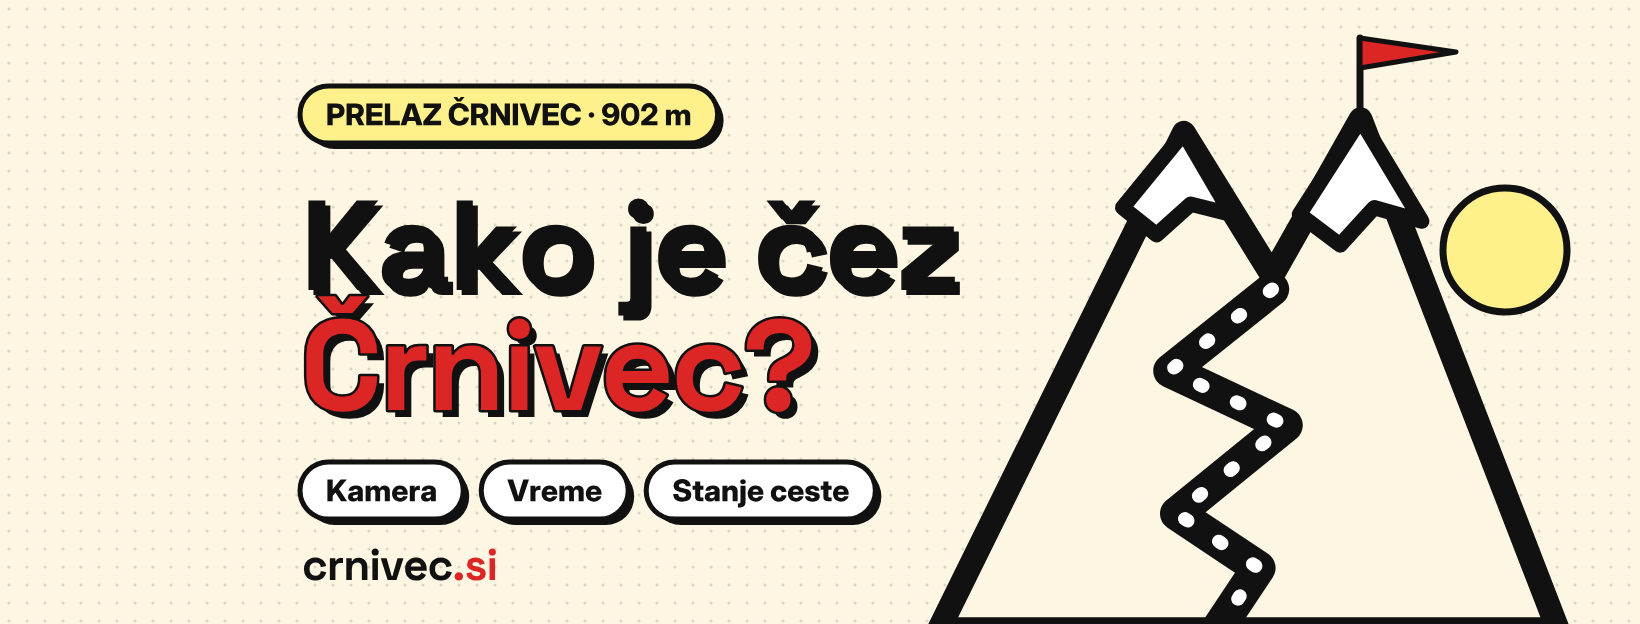
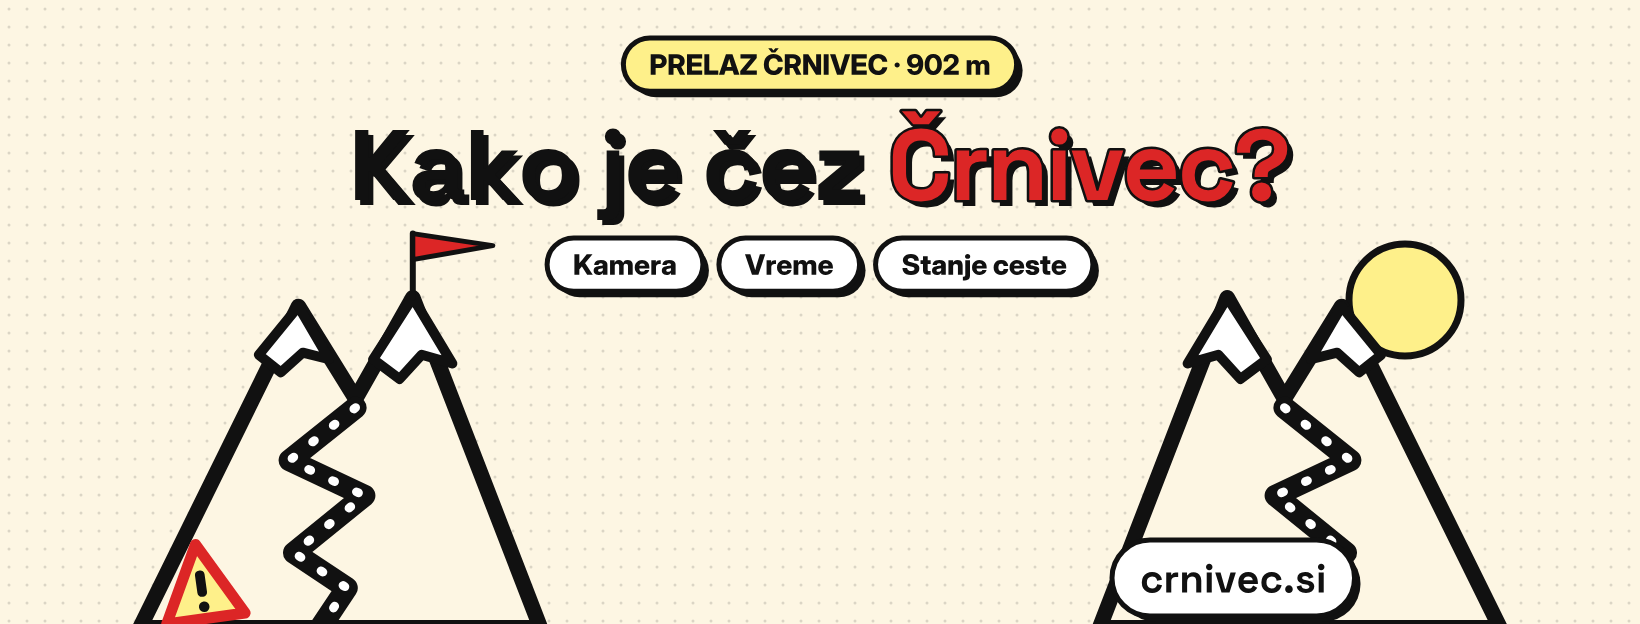
crnivec.si: FB naslovnica za nov videz strani (profilna na sredini) (#1030)
FB zdaj profilno sliko postavi na sredino čez spodnji rob naslovnice.
Besedilo je zato zgoraj na sredini, gori pa levo in desno, tako da
spodnja sredina ostane prazna in profilna sede v sedlo med njima.

Claude-Session: https://claude.ai/code/session_018zq1Mj54JDY6nUdMkaC1FW

diff --git a/tools/build_crnivec_brand.py b/tools/build_crnivec_brand.py
@@ -214,42 +214,58 @@ def chip(x, y, text, fonts, fs, fill, ink=INK, padx=26, h=None, shadow=6):
 
 def fb_cover():
     """Naslovnica 1640×624 (FB: namizje 820×312 pri 2×, telefon obreže
-    stranice na ~1110×624 v sredini). Vse bistveno je zato v sredinskem pasu
-    x 265–1375; levi spodnji kot na namizju prekrije profilna slika."""
+    stranice na ~1110×624 v sredini, zato je vse bistveno v pasu x 265–1375).
+
+    V novem videzu strani FB profilno sliko postavi NA SREDINO, čez spodnji
+    rob naslovnice. Spodnja sredina (x ~520–1120, y > ~330) mora zato ostati
+    prazna: besedilo je zgoraj na sredini, gori pa levo in desno, tako da
+    profilna sede v sedlo med njima."""
     W, H = 1640, 624
+    CX = W / 2
     defs = halftone("ht", INK, step=18, r=1.5, opacity=0.9)
     parts = [f'<rect width="{W}" height="{H}" fill="{CREAM}"/>',
              f'<rect width="{W}" height="{H}" fill="url(#ht)" opacity=".16"/>']
-    # Sonce + velika gora desno (sega čez spodnji rob)
-    parts.append(f'<circle cx="1505" cy="250" r="62" fill="{YELLOW}" stroke="{INK}" stroke-width="7"/>')
-    parts.append(f'<g transform="translate(905,58) scale(3.4)">{mountain(True, sign=False)}</g>')
-    # »902 m« zastavica na desnem vrhu
-    fx, fy = 1360, 108
-    parts.append(f'<path d="M{fx} {fy} L{fx} {fy - 70}" stroke="{INK}" stroke-width="7" stroke-linecap="round"/>')
-    parts.append(f'<path d="M{fx} {fy - 70} L{fx + 96} {fy - 56} L{fx} {fy - 40} Z" fill="{RED}" stroke="{INK}" '
+
+    # Sonce za desno goro, gori levo in desno (desna zrcaljena), segata čez spodnji rob
+    parts.append(f'<circle cx="1405" cy="300" r="56" fill="{YELLOW}" stroke="{INK}" stroke-width="7"/>')
+    parts.append(f'<g transform="translate(118,258) scale(2.2)">{mountain(True, sign=True)}</g>')
+    parts.append(f'<g transform="translate(1522,258) scale(-2.2,2.2)">{mountain(True)}</g>')
+    # zastavica na višjem (desnem) vrhu leve gore
+    fx, fy = 118 + 134 * 2.2, 258 + 18 * 2.2
+    parts.append(f'<path d="M{fx} {fy} L{fx} {fy - 64}" stroke="{INK}" stroke-width="6" stroke-linecap="round"/>')
+    parts.append(f'<path d="M{fx} {fy - 64} L{fx + 80} {fy - 52} L{fx} {fy - 38} Z" fill="{RED}" stroke="{INK}" '
                  f'stroke-width="5" stroke-linejoin="round"/>')
-    # Besedilo levo-sredinsko (od x=300)
-    x0 = 300
-    eyebrow, _ = chip(x0, 86, "PRELAZ ČRNIVEC · 902 m", INTER_800, 30, YELLOW)
-    parts.append(eyebrow)
-    fs = 128
-    parts.append(tp("Kako je čez", GROTESK, fs, x0 + 5, 290 + 5, INK, tracking=-fs * 0.025))
-    parts.append(tp("Kako je čez", GROTESK, fs, x0, 290, INK, tracking=-fs * 0.025))
-    # »Črnivec?« rdeče z obrisom in trdo senco
-    d, _ = text_path("Črnivec?", GROTESK, fs, x0, 410, tracking=-fs * 0.025)
-    d2, _ = text_path("Črnivec?", GROTESK, fs, x0 + 7, 417, tracking=-fs * 0.025)
+
+    def chip_c(y, text, fonts, fs, fill, padx=26):
+        w = tw(text, fonts, fs) + 2 * padx
+        return chip(CX - w / 2, y, text, fonts, fs, fill, padx=padx)[0]
+
+    parts.append(chip_c(38, "PRELAZ ČRNIVEC · 902 m", INTER_800, 28, YELLOW))
+
+    # »Kako je čez Črnivec?« v eni vrstici, sredinsko; »Črnivec?« rdeče z obrisom
+    fs, tr, base = 100, -100 * 0.025, 200
+    w1 = tw("Kako je čez ", GROTESK, fs, tr)
+    w2 = tw("Črnivec?", GROTESK, fs, tr)
+    x0 = CX - (w1 + w2) / 2
+    parts.append(tp("Kako je čez", GROTESK, fs, x0 + 5, base + 5, INK, tracking=tr))
+    parts.append(tp("Kako je čez", GROTESK, fs, x0, base, INK, tracking=tr))
+    d, _ = text_path("Črnivec?", GROTESK, fs, x0 + w1, base, tracking=tr)
+    d2, _ = text_path("Črnivec?", GROTESK, fs, x0 + w1 + 6, base + 6, tracking=tr)
     parts.append(f'<path d="{d2}" fill="{INK}"/>')
-    parts.append(f'<path d="{d}" fill="{RED}" stroke="{INK}" stroke-width="5" stroke-linejoin="round" paint-order="stroke"/>')
-    # Čipi
-    cx = x0
-    for t in ("Kamera", "Vreme", "Stanje ceste"):
-        c, w = chip(cx, 462, t, INTER_800, 30, WHITE)
-        parts.append(c)
-        cx += w + 18
-    # crnivec.si spodaj desno od čipov
-    fsu = 44
-    parts.append(tp("crnivec", GROTESK, fsu, x0 + 2, 580, INK, tracking=-1))
-    parts.append(tp(".si", GROTESK, fsu, x0 + 2 + tw("crnivec", GROTESK, fsu, -1) - 1, 580, RED, tracking=-1))
+    parts.append(f'<path d="{d}" fill="{RED}" stroke="{INK}" stroke-width="5" stroke-linejoin="round" '
+                 f'paint-order="stroke"/>')
+
+    # Čipi v vrsti pod naslovom
+    labels = ("Kamera", "Vreme", "Stanje ceste")
+    fsc, gap = 28, 16
+    widths = [tw(t, INTER_800, fsc) + 52 for t in labels]
+    cx = CX - (sum(widths) + gap * (len(labels) - 1)) / 2
+    for t, w in zip(labels, widths):
+        parts.append(chip(cx, 238, t, INTER_800, fsc, WHITE)[0])
+        cx += w + gap
+
+    # crnivec.si na tabli ob desni gori (v pasu, ki ga telefon še pokaže)
+    parts.append(chip(1112, 540, "crnivec.si", GROTESK, 40, WHITE, padx=28)[0])
     return svg(W, H, "".join(parts), defs)
 
 
